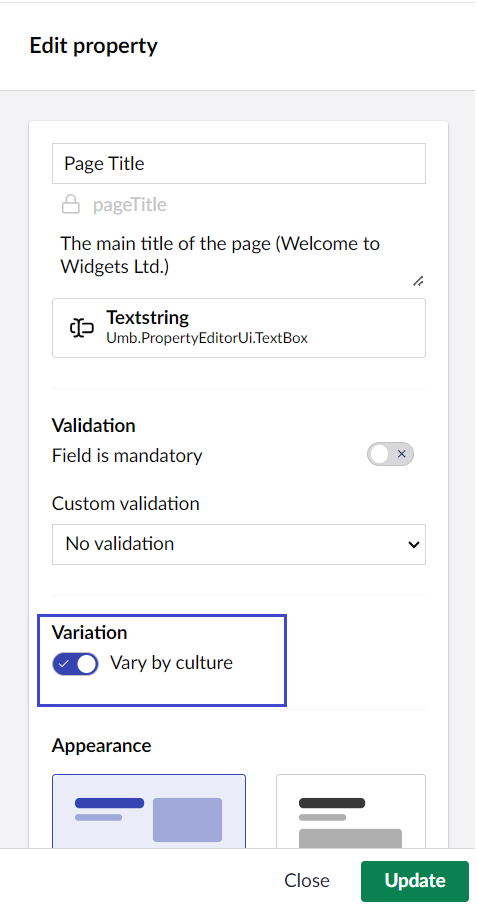
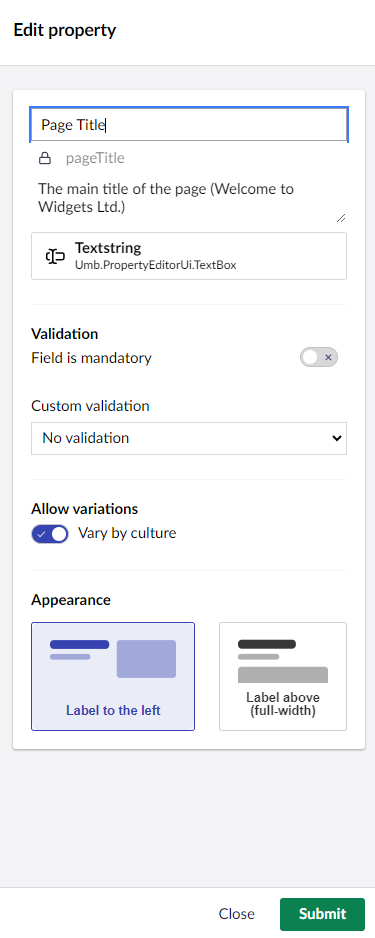
More updates

diff --git a/14/umbraco-cms/tutorials/creating-a-basic-website/adding-language-variants.md b/14/umbraco-cms/tutorials/creating-a-basic-website/adding-language-variants.md
@@ -1,6 +1,6 @@
 # Adding Language Variants
 
-Now that we have a basic site set up, let's make the site multilingual by making variations of our content in one more language. For this tutorial, we will make a Danish version of the `HomePage` page.
+Now that we have a basic site set up, let's make it multilingual by creating content variations in another language. For this tutorial, we will create a Danish version of the `HomePage`.
 
 ## Adding a new language
 
@@ -15,9 +15,8 @@ To add a new language, follow these steps:
    * Mandatory language for your site, toggle **Mandatory Language**.
 6. Select a **Fallback Language** from the drop-down list.
 7. Click **Submit**.
-
-   ![Adding a language](images/adding-a-language.png)
 8. Click **Save**.
+   ![Adding a language](images/adding-a-language.png)
 
 ## Enabling Language Variants on Document Types and Properties
 
@@ -31,10 +30,9 @@ To enable language variants on Document Types, follow these steps:
 4. Click **Save**.
 5. Go to the **Design** tab.
 6. Click on the Data Type of the **Page Title** and enable **Vary by culture**.
-7. Click **Update**.
-
-    ![Allow property editor Language Variants](images/enable-vary-by-culture-property.png)
+7. Click **Submit**.
 8. Click **Save**.
+    ![Allow property editor Language Variants](images/enable-vary-by-culture-property.png)
 
 ## Adding Culture and Hostnames to the root node of the website
 
@@ -44,9 +42,8 @@ To add culture and hostnames, follow these steps:
 2. Click on the **...** dots next to the **Home Page** content node.
 3. Select **Culture and Hostnames**.
 4. Add a domain for each hostname, like it's done here:
-
-    ![Culture and Hostnames](images/culture-and-hostnames-v14.png)
 5. Click **Save**.
+    ![Culture and Hostnames](images/culture-and-hostnames-v14.png)
 
 ## Adding Language Variants to the Content
 

diff --git a/14/umbraco-cms/tutorials/creating-a-basic-website/conclusion.md b/14/umbraco-cms/tutorials/creating-a-basic-website/conclusion.md
@@ -1,12 +1,12 @@
 # Conclusions
 
-We now have a fully fledged working site! Hopefully, this guide has given you all the basics required to create your own site in Umbraco.
+Congratulations! You now have a fully functional website. Hopefully, this guide has provided you with all the basics needed to create your own site in Umbraco.
 
-This is not the limit of Umbraco - you've barely scratched the surface in this guide.
+However, this is the beginning — there’s so much more to explore in Umbraco beyond what we've covered here.
 
-* For Video Tutorials, see the [Umbraco Learning Base Youtube channel](https://www.youtube.com/c/UmbracoLearningBase).
-* For hands-on Training and Developer Certification, attend an official Umbraco Master Class course in a city near you. [Book your Online Course now](https://umbraco.com/products/training).
-* For Online Documentation, see [Our Umbraco Documentation website](https://docs.umbraco.com/welcome/).
-* For Help and Guidance on anything this guide doesn't cover, reach out to us at [Umbraco Forum](https://our.umbraco.com/forum).
+* **Video Tutorials:** Check out the [Umbraco Learning Base channel on Youtube](https://www.youtube.com/c/UmbracoLearningBase).
+* **Training and Certification:** Attend an official Umbraco Master Class or [Book an Online Course now](https://umbraco.com/products/training).
+* **Documentation:** Visit the [Umbraco Documentation website](https://docs.umbraco.com/welcome/) for detailed guidance.
+* **Support:** For help with topics not covered in this guide, connect with the community on the [Umbraco Forum](https://our.umbraco.com/forum).
 
 ## Happy Umbraco-ing

diff --git a/14/umbraco-cms/tutorials/creating-a-basic-website/article-parent-and-article-items.md b/14/umbraco-cms/tutorials/creating-a-basic-website/article-parent-and-article-items.md
@@ -153,7 +153,7 @@ To update the **Articles Main** template, follow these steps:
 
 <summary>See the entire file: Articles Main</summary>
 
-{% code title="welcome-dashboard.element.ts" lineNumbers="true" %}
+{% code title="articlesMain.cshtml" lineNumbers="true" %}
 ```cs
 @using Umbraco.Cms.Web.Common.PublishedModels;
 @inherits Umbraco.Cms.Web.Common.Views.UmbracoViewPage
@@ -275,7 +275,7 @@ To update the **Articles Item** template, follow these steps:
 
 <summary>See the entire file: Articles Item</summary>
 
-{% code title="welcome-dashboard.element.ts" lineNumbers="true" %}
+{% code title="articlesItem.cshtml" lineNumbers="true" %}
 ```cs
 @using Umbraco.Cms.Web.Common.PublishedModels;
 @inherits Umbraco.Cms.Web.Common.Views.UmbracoViewPage
